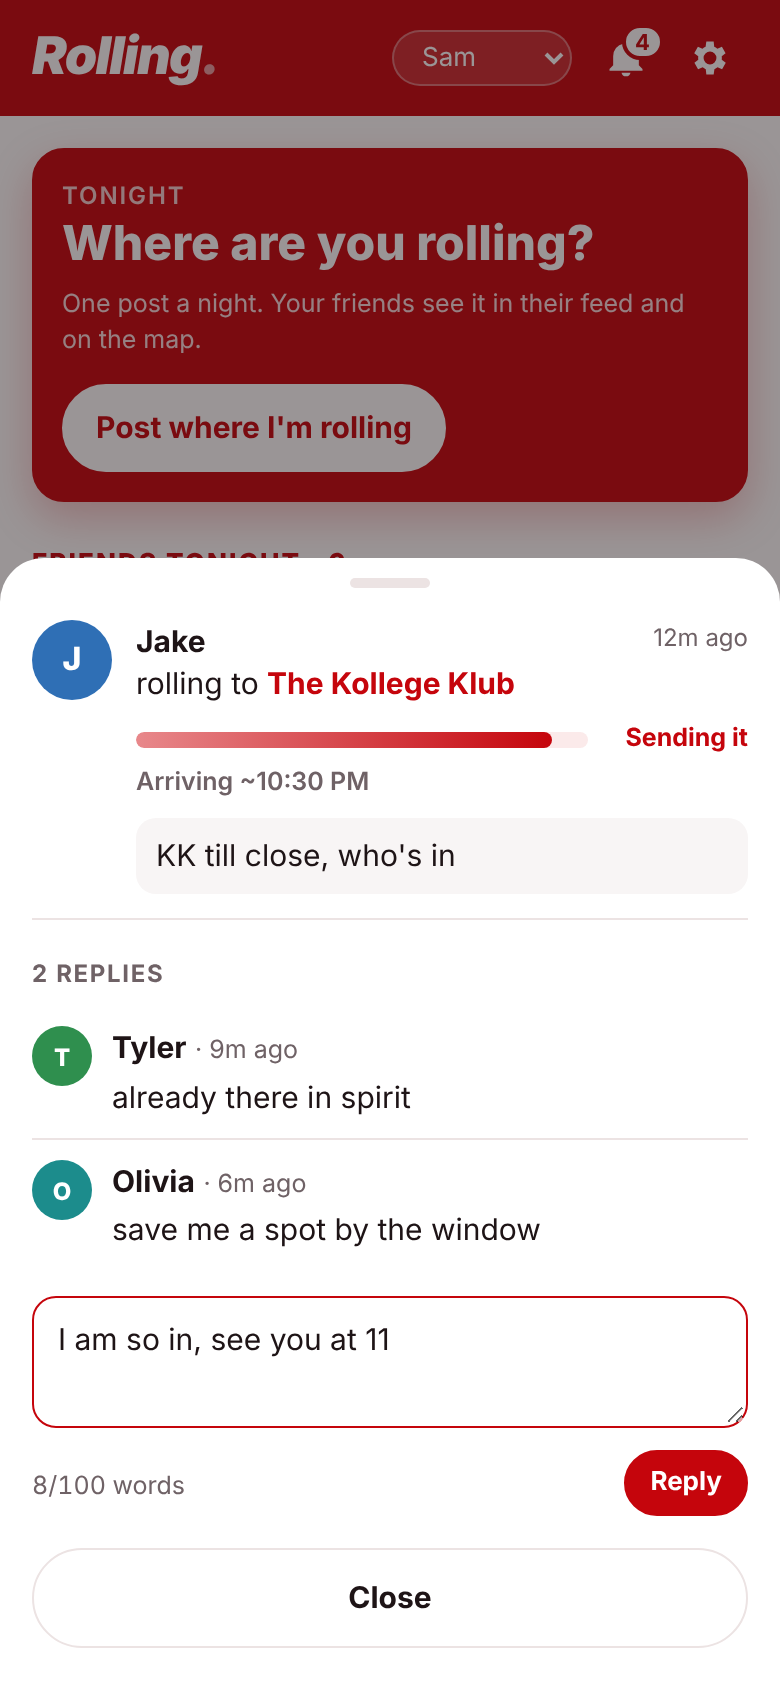
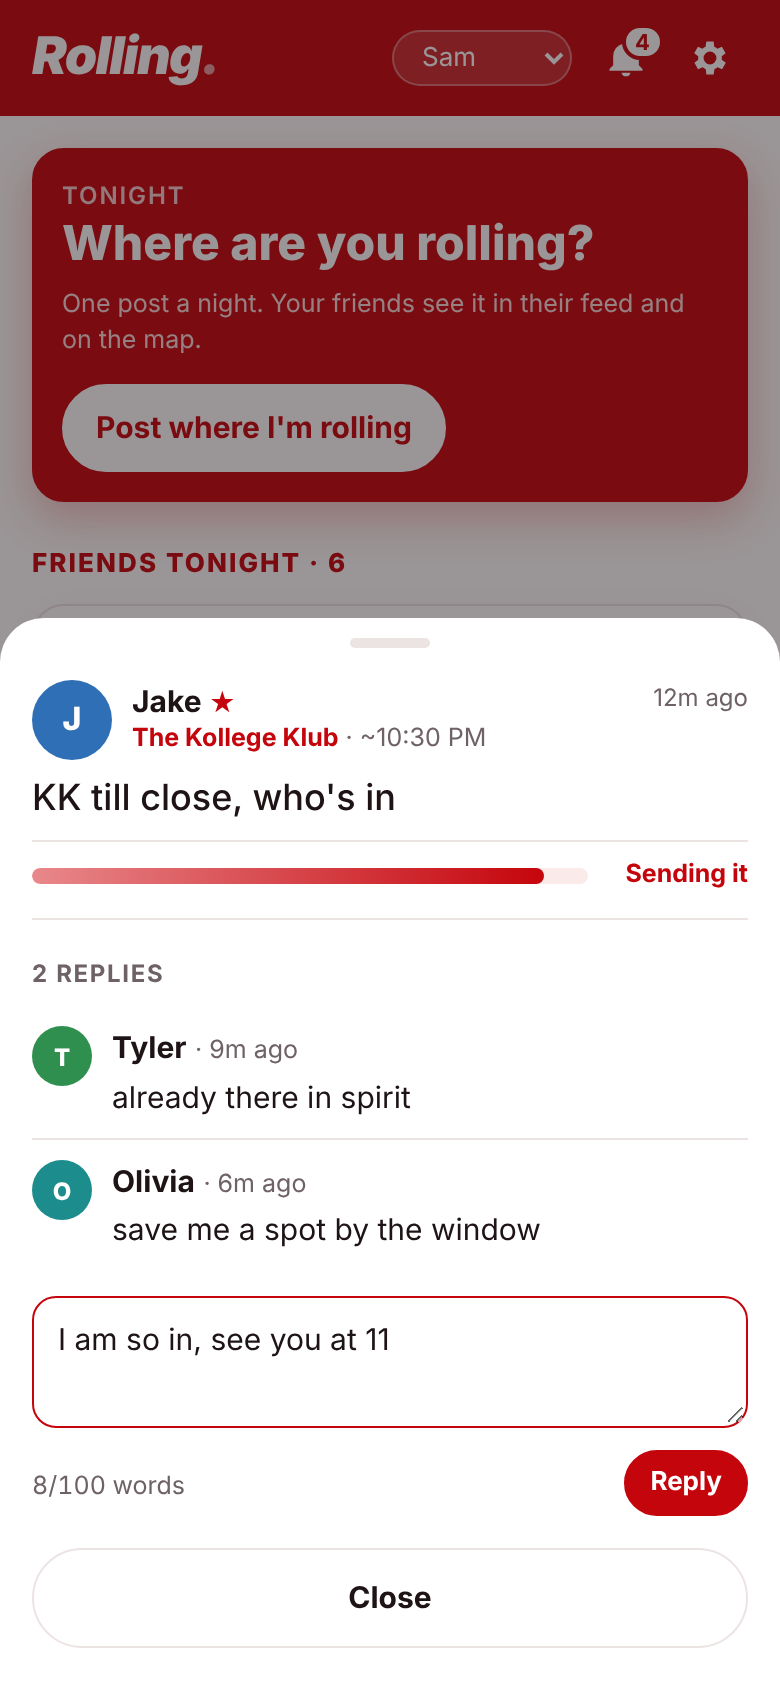
New post layout: name, small bar + time, large comment, replies, excitement bar last
Claude-Session: https://claude.ai/code/session_01LsgwHYcrkn2rvmvnVgPXbN

Changed region(s): [[0.0, 0.3081, 1.0, 0.5237], [0.8, 0.4929, 0.9538, 0.5237]]

diff --git a/app.js b/app.js
@@ -166,6 +166,19 @@
   }
 
   // ---------- feed ----------
+  // Post layout (Sam, 2026-11-18): name + picture, then bar and arrival time in
+  // small text, then the comment in larger text, replies, and the excitement bar last.
+  function postBody(p, opts = {}) {
+    const u = user(p.userId), b = BAR_BY_ID[p.barId];
+    return `<div class="post-head">${avatar(u)}
+        <div class="post-meta">
+          <div class="line1"><span class="who">${u.id === state.me ? "You" : esc(u.name)}${isFav(state.me, u.id) ? ' <span class="fav-star" title="Favorite">★</span>' : ""}</span><span class="time">${ago(p.at)}</span></div>
+          <div class="post-where"><b data-bar="${b.id}">${esc(b.name)}</b> · ~${fmtTime(p.arrive)}</div>
+        </div></div>
+      ${p.comment ? `<div class="post-text">${esc(p.comment)}</div>` : ""}
+      ${opts.replies ? replyBar(p) : ""}
+      <div class="post-meter">${meter(p.excitement)}</div>`;
+  }
   function postDetails(p) {
     return `${meter(p.excitement)}
       <div class="meta-row">${p.arrive ? `<span class="arrive">Arriving ~${fmtTime(p.arrive)}</span>` : ""}</div>
@@ -206,15 +219,7 @@
     } else {
       html += `<div class="stack">` + posts.map((p) => {
         const u = user(p.userId), b = BAR_BY_ID[p.barId];
-        return `<div class="card post" data-thread="${pid(p)}" id="post-${pid(p).replace(/[^\w-]/g, "_")}">
-          ${avatar(u)}
-          <div class="body">
-            <div class="line1"><span class="who">${esc(u.name)}${isFav(state.me, u.id) ? ' <span class="fav-star" title="Favorite">★</span>' : ""}</span><span class="time">${ago(p.at)}</span></div>
-            <div class="where">rolling to <b data-bar="${b.id}">${esc(b.name)}</b></div>
-            ${postDetails(p)}
-            ${replyBar(p)}
-          </div>
-        </div>`;
+        return `<div class="card post" data-thread="${pid(p)}">${postBody(p, { replies: true })}</div>`;
       }).join("") + `</div>`;
     }
 
@@ -566,11 +571,7 @@
     const u = user(p.userId), b = BAR_BY_ID[p.barId], rs = repliesFor(pid(p));
     openSheet(`
       <div class="thread-post ${opts.highlight ? "flash" : ""}">
-        <div class="post">${avatar(u)}<div class="body">
-          <div class="line1"><span class="who">${u.id === state.me ? "You" : esc(u.name)}</span><span class="time">${ago(p.at)}</span></div>
-          <div class="where">rolling to <b data-bar="${b.id}">${esc(b.name)}</b></div>
-          ${postDetails(p)}
-        </div></div>
+        ${postBody(p)}
       </div>
       <div class="field-label">${rs.length} ${rs.length === 1 ? "reply" : "replies"}</div>
       <div class="replies">${rs.map((r) => {

diff --git a/styles.css b/styles.css
@@ -287,3 +287,18 @@ textarea.comment:focus { border-color: var(--red); }
 .spot { border-radius: 50%; background: rgba(197, 5, 12, .22); border: 2px solid var(--red); box-sizing: border-box; }
 .spot-note { font-size: 13px; color: var(--red); font-weight: 600; margin: -8px 0 4px; }
 #friendsBody > h2:first-child { margin-top: 18px; }
+
+/* Post card layout: header, small bar + time, big comment, replies, meter last */
+.card.post { display: flex; flex-direction: column; gap: 8px; }
+.post-head { display: flex; gap: 10px; align-items: center; }
+.post-meta { flex: 1; min-width: 0; }
+.post-meta .line1 { display: flex; justify-content: space-between; gap: 8px; }
+.post-meta .who { font-weight: 700; }
+.post-meta .time { color: var(--muted); font-size: 12px; white-space: nowrap; }
+.post-where { font-size: 12.5px; color: var(--muted); }
+.post-where b { color: var(--red); font-weight: 700; cursor: pointer; }
+.post-text { font-size: 18px; line-height: 1.35; font-weight: 500; overflow-wrap: anywhere; }
+.card.post .reply-bar { margin-top: 0; }
+.post-meter { border-top: 1px solid var(--line); padding-top: 8px; }
+.post-meter .meter { margin-top: 0; }
+.thread-post { display: flex; flex-direction: column; gap: 8px; }
